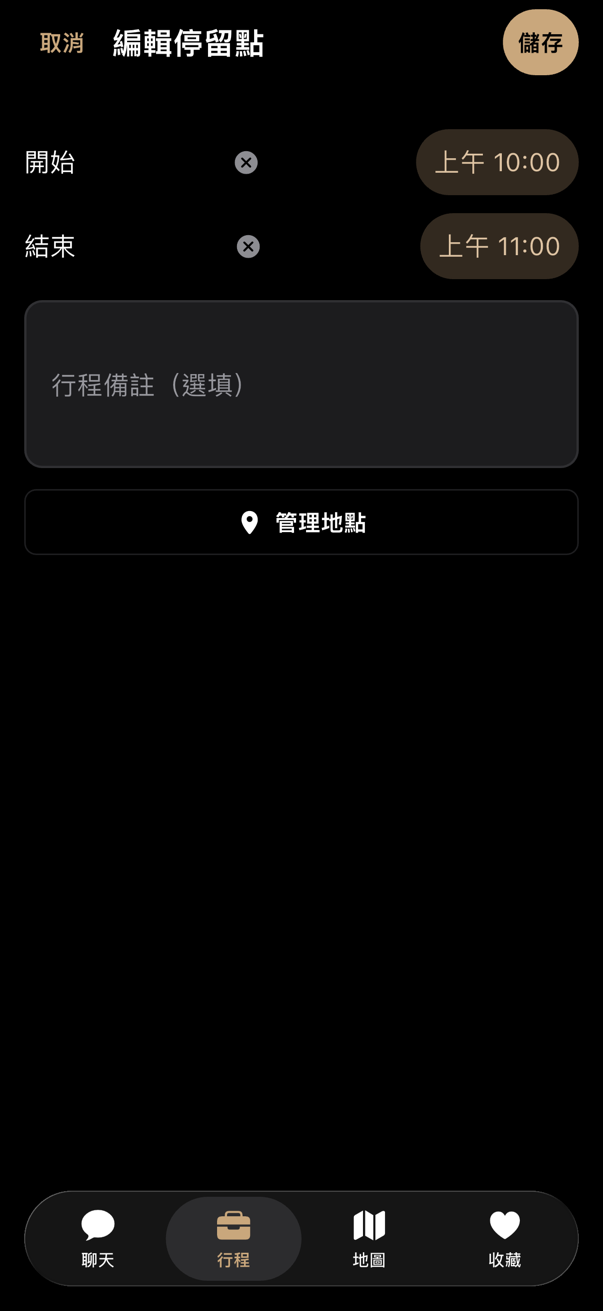
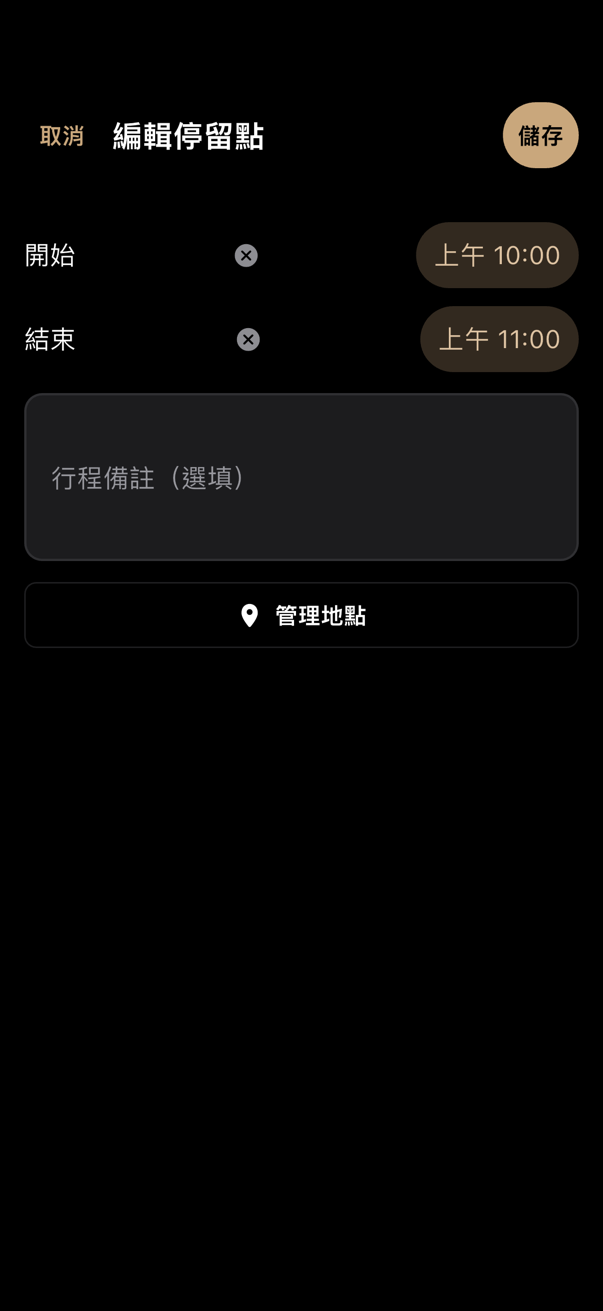
docs: 重拍停留點四個場景並標記 A4 完成，更新路由清單與 CHANGELOG

diff --git a/test/app/router_test.dart b/test/app/router_test.dart
@@ -1336,7 +1336,7 @@ void main() {
 
     expect(find.byType(EntryAddRouteScreen), findsOneWidget);
     expect(find.text('新增停留點'), findsWidgets);
-    expect(find.byType(AppleRootTabBar), findsOneWidget);
+    expect(find.byType(AppleRootTabBar), findsNothing);
     expect(find.byType(LoginScreen), findsNothing);
   });
 

diff --git a/docs/qa/2026-11-04-hig-fix-list.md b/docs/qa/2026-11-04-hig-fix-list.md
@@ -31,9 +31,10 @@
 
 ## 二、App 要改的
 
-**#544 處理結果**（分支 `fix/hig-app-544`，每項先紅燈再實作；✅＝已修，⚪＝查過不改，A3／A4 要先決定；**A3 已於 #546／#549 完成**，A4 未動）：
+**#544 處理結果**（分支 `fix/hig-app-544`，每項先紅燈再實作；✅＝已修，⚪＝查過不改，A3／A4 要先決定；**A3 已於 #546／#549 完成，A4 已於 #547 完成**）：
 
-- ✅ **A3 行程編輯改即時儲存（#546、#549）**：採「拿掉取消、改即時儲存」。標題列只剩「完成」；標題與描述失焦或按「完成」才送出、打字中不送；目的地、語言、發布狀態改了立即送；日期平移與天數新增、刪除維持立即生效，刪除仍先確認且不可復原（ADR-0008）；移除「捨棄未儲存的變更」確認。失敗時保留輸入並在欄位下方就地顯示錯誤與「重試」；「完成」遇到未送出成功的變更會攔截（說出欄位，選「重試」或「放棄變更」）；標題清空不送出、就地提示「標題不能是空白」，按「完成」時還原成上次成功的值。離線時 `PUT /trips/:id` 本來就不進離線佇列，送出會失敗，與改版前相同，只是現在失敗就地可見並可重試。重拍 `trip-edit`、`trip-edit-load-failed`，新增 `trip-edit-save-failed`（淺深各看過）。A4（停留點表單的分頁列）與本項無關，未動。
+- ✅ **A3 行程編輯改即時儲存（#546、#549）**：採「拿掉取消、改即時儲存」。標題列只剩「完成」；標題與描述失焦或按「完成」才送出、打字中不送；目的地、語言、發布狀態改了立即送；日期平移與天數新增、刪除維持立即生效，刪除仍先確認且不可復原（ADR-0008）；移除「捨棄未儲存的變更」確認。失敗時保留輸入並在欄位下方就地顯示錯誤與「重試」；「完成」遇到未送出成功的變更會攔截（說出欄位，選「重試」或「放棄變更」）；標題清空不送出、就地提示「標題不能是空白」，按「完成」時還原成上次成功的值。離線時 `PUT /trips/:id` 本來就不進離線佇列，送出會失敗，與改版前相同，只是現在失敗就地可見並可重試。重拍 `trip-edit`、`trip-edit-load-failed`，新增 `trip-edit-save-failed`（淺深各看過）。A4（停留點表單的分頁列）與本項無關，見下一項。
+- ✅ **A4 停留點新增／編輯／複製／移動改為整頁 modal（#547）**：四條路由移到 shell 外（`fullscreenDialog`，與新增行程、編輯行程一致），網址不變、舊 web 連結別名照常；畫面沒有底部分頁列（路由測試以 `AppleRootTabBar` 不存在為守門，mutation 把路由搬回 shell 內會轉紅）。新增與複製／移動存檔後優先 pop 回進入前的畫面，健檢頁的編輯入口由 `go` 改 `push` 才能返回。複製與移動在 App 內沒有入口，只搬位置未刪除。重拍 `entry-add`、`entry-edit`、`entry-copy`、`entry-move`（淺深逐張看過，皆無分頁列）。
 - ✅ A1 註冊鈕：未勾同意停用並顯示說明。✅ A2 加入行程錯誤態：圖示加「返回」。✅ A5 登入裝置頁：深色紅色 `#FF453A`→`#FF6961`（4.09→4.94）、OAuth 說明卡降一階底色。✅ A6 已連結 App：Chip 取目前主題底色、圖示對齊標題。✅ A7 健檢卡同寬（紅燈 720 vs 175）。✅ A9 公開分享頁大字級主按鈕獨立一列。⚪ **A10 已取消**：改走單一 tint（維持 Apple 的做法，預設分頁列選中標籤 4.39:1 記為已知例外，「提高對比」時才加深，見 #550）；#545 先前加的 `onPrimaryContainer` 特例已回退。✅ A11 補標籤：日期條、搜尋欄、收藏列。
 - **紅燈證據**（各項在實作前實際看到的失敗輸出）：A1 `Expected: null / Actual: <Closure _submit>`（建立鈕原本可按）；A2 找不到錯誤圖示與「返回」；A5 對比 `4.090967…`（深色紅字）；A6 `chip.backgroundColor` 為 null；A7 `Expected 720.0 / Actual 175.0`；A9 `Expected ≥ 414.0 / Actual 350.0`；A10 對比 `4.389355…`（與工具掃描 4.39 一致）；A11 `labeledTapTargetGuideline` 回報確切節點（日期條 `Rect 0,0 177×48`、收藏列、探索頁 `Rect 16,128 → 784,188`）。
 - **審查後的調整**：① A2 原本手刻圖示加文字，改為重用 `TpStateView`（票文要求重用既有錯誤態元件）。② A11 搜尋欄原本全域在 `AppSearchField` 加 label，審查指出可能讓其他畫面念兩遍；我用語意樹傾印確認：探索頁外層 `[tap]` 節點 label 為空，但在最小環境下 label 會與 hint 合併成「搜尋地點⏎搜尋地點」。改為選擇性參數 `semanticLabel`，只有探索頁傳。**仍需用真機 VoiceOver 確認探索頁搜尋欄的朗讀不重複**（外層節點「搜尋地點」加內層欄位 hint，是兩個元素，不是同一個念兩遍，但我沒用真正的 VoiceOver 驗過）。③ 淺色選中前景改用 `tintDeep` 後，App 內並存兩個棕色：一般前景仍是 `primary #8A6038`，分頁列與日期條選中字是較深的 `#6F4C2C`。這是為了對中性選取底達 4.5:1 的刻意差異，設計上要不要統一由你決定。④ 深色 `destructiveBackground`（錯誤面板底）仍是 `#FF453A` 的 20% alpha，沒有跟著換色，只換了文字用的 destructive；這是刻意的（底色飽和度不動），但錯誤面板文字對比靠的是文字色變亮。
@@ -47,7 +48,7 @@
 | A1 ✅ | `auth-signup` | F5 | 空表單、未勾同意時「建立」仍可按（`account_flow_screens.dart:145` 是 `primaryActionEnabled: !_submitting`） | 欄位未通過驗證或未勾同意時停用，與 web 對齊（web 已是停用外觀加就地說明） | 程式碼 |
 | A2 ✅ | `add-to-trip-invalid-favorite`、`add-to-trip-missing-data` | G6、G7 | 有說明原因，但只有一行灰字，沒有圖示、重試或返回；底部分頁列仍顯示（`add_to_trip_screen.dart:76,90`） | 改用專案既有的錯誤態元件，附「返回」；分頁列的處理與 A4 一起決定 | 程式碼加看圖 |
 | A3 ✅ | `trip-edit` | D10、G5 | 同一個有「取消」的表單，部分欄位按「儲存」才生效、日期與天數立即生效 | 統一成「全部按儲存才生效」，或拿掉「取消」改成即時儲存 | 看圖 |
-| A4 | `entry-add`／`entry-edit`／`entry-copy`／`entry-move` | D12、D15 | modal 式表單下方仍顯示底部分頁列 | 改成真正的 modal 呈現（sheet 或全螢幕覆蓋，自然蓋住分頁列）。注意 D15 要求不要隱藏或停用 tab bar，所以不是在路由上單純關掉分頁列，要先決定這些表單屬於「分頁內的頁面」還是「modal」 | 看圖 |
+| A4 ✅ | `entry-add`／`entry-edit`／`entry-copy`／`entry-move` | D12、D15 | modal 式表單下方仍顯示底部分頁列 | 改成真正的 modal 呈現（sheet 或全螢幕覆蓋，自然蓋住分頁列）。注意 D15 要求不要隱藏或停用 tab bar，所以不是在路由上單純關掉分頁列，要先決定這些表單屬於「分頁內的頁面」還是「modal」 | 看圖 |
 | A5 ✅ | `account-sessions` | C1 | 「管理已連結應用」文字 4.36:1，低於 4.5:1；該卡疑似帶按下或焦點外框 | 調深文字色或換 token；確認外框是否為殘留焦點 | 像素加看圖 |
 | A6 ✅ | `account-connected-apps` | C4、H2 | 深色下 scope 標籤沒有膠囊底；列內圖示與標題錯位 | 補深色底色 token；對齊圖示與標題基線 | 看圖 |
 | A7 ✅ | `trip-health-findings` | 版面 | 第二張建議卡只有第一張一半寬 | 兩張卡同寬（檢查 Row／Expanded） | 看圖 |
@@ -119,7 +120,7 @@ web 補掃（axe、320px 重排、200% 文字、鍵盤焦點）詳見 web 報告
 | A1 | `auth-signup` | F5：HIG/entering-data |
 | A2 | `add-to-trip-invalid-favorite`、`add-to-trip-missing-data` | G6、G7：HIG/feedback；「缺下一步動作」**無一手來源**，是專案內的可用性判斷 |
 | A3 | `trip-edit` | D10：HIG/sheets；G5：HIG/feedback |
-| A4 | `entry-add`、`entry-edit`、`entry-copy`、`entry-move` | D12：HIG/modality；D15：HIG/tab-bars |
+| A4 ✅ | `entry-add`、`entry-edit`、`entry-copy`、`entry-move` | D12：HIG/modality；D15：HIG/tab-bars |
 | A5 | `account-sessions` | C1：HIG/accessibility |
 | A6 | `account-connected-apps` | C4：HIG/color；H2：HIG/dark-mode |
 | A7 | `trip-health-findings` | 無（版面問題，無對應 HIG 條目） |

diff --git a/docs/qa/2026-11-04-hig-screenshot-review-app.md b/docs/qa/2026-11-04-hig-screenshot-review-app.md
@@ -33,7 +33,7 @@
 | 2 | `auth-reset-password-expired` | — | **已修**：場景 stub 用錯 error code，畫面顯示的不是過期提示 | 看圖加程式碼（`:541-546`） |
 | 3 | `trip-map-route-failed` | — | **已修**：與 `trip-map` 位元組相同，沒有失敗畫面（根因：fixture 湊不出相鄰兩點） | SHA-1 相同 |
 | 4 | `trip-edit` | D10、G5 | **已修（#546、#549）**：改為即時儲存，標題列只有「完成」，說明文字不再互相矛盾 | 看圖（畫面文字）加紅燈測試 |
-| 5 | `entry-add`／`entry-edit`／`entry-copy`／`entry-move` | D12 | modal 式表單下方仍顯示底部分頁列 | 看圖 |
+| 5 ✅ | `entry-add`／`entry-edit`／`entry-copy`／`entry-move` | D12 | modal 式表單下方仍顯示底部分頁列（#547 已改為整頁 modal） | 看圖 |
 | 6 | `account-sessions` | C1 | **已修（#544）**：「管理已連結應用」4.36:1，低於 4.5:1；且該卡疑似帶按下／焦點外框 | 像素量測加看圖 |
 | 7 | `account-connected-apps` | C4、H2 | **已修（#544）**：深色下 scope 標籤沒有膠囊底；列內圖示與標題錯位 | 看圖 |
 | 8 | `trip-health-findings` | 版面 | **已修（#544）**：第二張建議卡只有第一張一半寬 | 看圖 |
@@ -109,10 +109,10 @@
 | `collab-load-failed` | 淺深已看 | 疑慮 | F5 | 「新增」鈕在 Email 為空時仍可按（程式碼 `collab_screen.dart:300` 確認）；獨立複核者也指出（見修改清單 A12） |
 | `collab` | 淺深已看 | 未見明顯問題 | — | 目視未發現與檢查表衝突之處；僅看圖，未量字級與對比 |
 | `components` | 淺深已看 | 未見明顯問題 | — | 元件示範頁；右上角 DEBUG 角標是 debug build 的標示，不是 App 問題 |
-| `entry-add` | 淺深已看 | 疑慮 | D12 | modal 式表單（取消／儲存在頂部）底下仍顯示底部分頁列；取消在左、完成在右（D8）符合 |
-| `entry-copy` | 淺深已看 | 疑慮 | D12 | modal 式表單（取消／儲存在頂部）底下仍顯示底部分頁列；取消在左、完成在右（D8）符合 |
-| `entry-edit` | 淺深已看 | 疑慮 | D12 | modal 式表單（取消／儲存在頂部）底下仍顯示底部分頁列；取消在左、完成在右（D8）符合 |
-| `entry-move` | 淺深已看 | 疑慮 | D12 | modal 式表單（取消／儲存在頂部）底下仍顯示底部分頁列；取消在左、完成在右（D8）符合 |
+| `entry-add` | 淺深已看 | 已處理（#547） | D12 | 已改為 shell 外整頁 modal，重拍後淺深皆無底部分頁列；取消在左、主要動作在右（D8）符合 |
+| `entry-copy` | 淺深已看 | 已處理（#547） | D12 | 已改為 shell 外整頁 modal，重拍後淺深皆無底部分頁列；取消在左、主要動作在右（D8）符合 |
+| `entry-edit` | 淺深已看 | 已處理（#547） | D12 | 已改為 shell 外整頁 modal，重拍後淺深皆無底部分頁列；取消在左、主要動作在右（D8）符合 |
+| `entry-move` | 淺深已看 | 已處理（#547） | D12 | 已改為 shell 外整頁 modal，重拍後淺深皆無底部分頁列；取消在左、主要動作在右（D8）符合 |
 | `entry-pois` | 淺深已看 | 未見明顯問題 | — | 目視未發現與檢查表衝突之處；僅看圖，未量字級與對比 |
 | `explore-empty-results` | 淺深已看 | 未見明顯問題 | — | 目視未發現與檢查表衝突之處；僅看圖，未量字級與對比 |
 | `explore-search-failed` | 淺深已看 | 疑慮 | G6 | 錯誤訊息「搜尋失敗,請稍後再試」沒說原因（見修改清單 A13）；獨立複核者也指出 |

diff --git a/docs/research/2026-11-04-hig-app-screen-inventory.md b/docs/research/2026-11-04-hig-app-screen-inventory.md
@@ -35,10 +35,10 @@ HIG 取證的驗收依據：App 的每個路由與彈出層，各對到哪個 mo
 | `print` | TripPrintScreen | 已有場景 | `trip-print` `ax-trip-print-2x` |
 | `health` | TripHealthScreen | 已有場景 | `trip-health-not-run` `trip-health-findings` `trip-health-load-failed` |
 | `audit` | TripAuditScreen | 已有場景 | `trip-audit` `trip-audit-empty` `trip-audit-load-failed` |
-| `entries/new` | EntryAddRouteScreen | 已有場景 | `entry-add` |
-| `entries/:eid/edit` | EntryEditRouteScreen | 已有場景 | `entry-edit` |
-| `entries/:eid/copy` | EntryActionRouteScreen | 已有場景 | `entry-copy` |
-| `entries/:eid/move` | EntryActionRouteScreen | 已有場景 | `entry-move` |
+| `/trips/:tripId/entries/new`（shell 外整頁 modal） | EntryAddRouteScreen | 已有場景 | `entry-add` |
+| `/trips/:tripId/entries/:eid/edit`（shell 外整頁 modal） | EntryEditRouteScreen | 已有場景 | `entry-edit` |
+| `/trips/:tripId/entries/:eid/copy`（shell 外整頁 modal） | EntryActionRouteScreen | 已有場景 | `entry-copy` |
+| `/trips/:tripId/entries/:eid/move`（shell 外整頁 modal） | EntryActionRouteScreen | 已有場景 | `entry-move` |
 | `entries/:eid/pois` | EntryPoiScreen | 已有場景 | `entry-pois` |
 | `/map` | GlobalMapScreen | 已有場景 | `global-map` `global-map-empty` `global-map-load-failed` |
 | `/favorites` | FavoritesScreen | 已有場景 | `favorites` `favorites-load-failed` `ax-favorites-2x` |

diff --git a/docs/qa/2026-11-04-hig-screenshots/README.md b/docs/qa/2026-11-04-hig-screenshots/README.md
@@ -23,7 +23,7 @@ flutter test integration_test/hig_screenshots_test.dart -d <UDID> \
 | `account-logout-confirm` | 標準 alert：標題、一行說明、左「取消」右紅色「登出」。符合預期。 | 破壞性確認 |
 | `collab` | 角色選擇 chip「共編成員／檢視成員」畫面上高約 35pt，低於 44pt；但觸控量測回報 0 違規，因為量的是語意節點範圍，可能比畫出來的大。**畫面尺寸與量測結果不一致，需人確認實際可點區域。** | A1 |
 | `trip-health-findings` | 第二張建議卡（低風險）寬度只有第一張的約一半，兩張卡寬不一致，疑似版面缺陷。 | 版面一致性 |
-| `entry-edit` | 帶「取消／儲存」的 modal 表單底下仍顯示底部分頁列。 | modal 與 tab bar |
+| `entry-edit` | （已於 #547 改為整頁 modal，重拍後沒有分頁列；原觀察：帶「取消／儲存」的 modal 表單底下仍顯示底部分頁列。） | modal 與 tab bar |
 | `global-map` | 地圖區域是測試用的「Google Map fixture」文字，不是真地圖，只能看疊在地圖上的控制項與底部卡片。 | — |
 | `auth-reset-password-success` | 成功頁頂端仍有返回鈕，頁面大片留白，主按鈕「前往登入」。 | — |
 

diff --git a/CHANGELOG.md b/CHANGELOG.md
@@ -7,6 +7,7 @@
 ### 變更
 
 - 行程編輯改為即時儲存：拿掉「取消」與「儲存」，標題列只剩「完成」。標題與描述在離開欄位或按「完成」時送出（打字中不送），目的地、語言、發布狀態改了立即送出；送出失敗時保留輸入並在欄位下方顯示錯誤與「重試」，「完成」遇到未送出的變更會攔截，標題清空不送出並在「完成」時還原。（#546、#549）
+- 停留點新增、編輯、複製、移動改為 shell 外的整頁 modal：不再顯示底部分頁列，網址與舊連結別名不變；新增與複製／移動存檔後回到進入前的畫面。（#547）
 
 ## [0.37.5] - 2026-11-03
 
